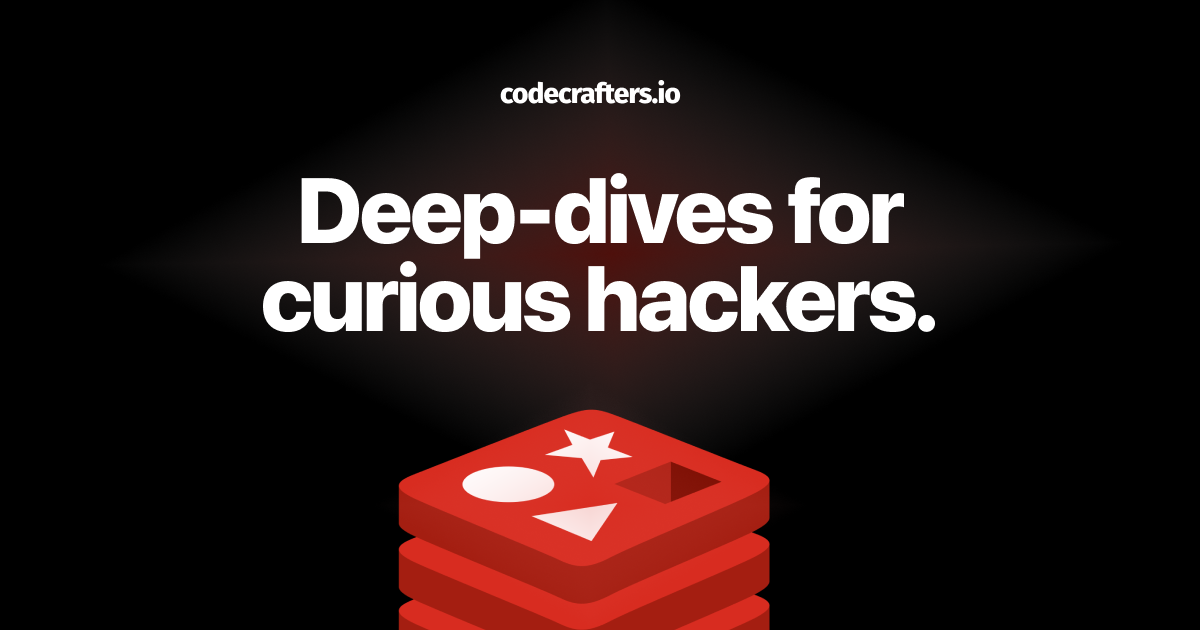
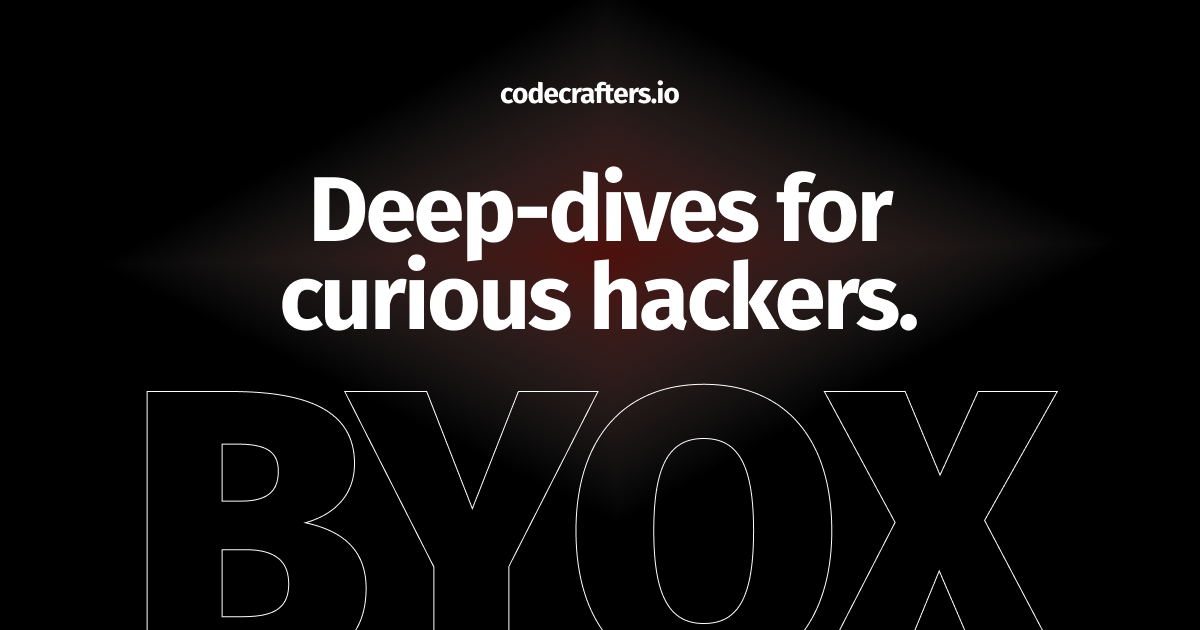
Update og

diff --git a/pages/index.js b/pages/index.js
@@ -15,9 +15,9 @@ export default function Home() {
   return (
     <div className="flex flex-col items-center justify-center min-h-screen">
       <Head>
-        <title>Master any language, with real projects</title>
+        <title>Build your own X. Master any language.</title>
         <link rel="icon" href="/for/favicon.ico" />
-        <meta name="title" content="Master any language, with real projects" />
+        <meta name="title" content="Build your own X. Master any language." />
         <meta
           name="description"
           content="Build Git, Docker, Redis & SQLite from scratch."
@@ -25,7 +25,7 @@ export default function Home() {
 
         <meta property="og:type" content="website" />
         <meta property="og:url" content="https://codecrafters.io/" />
-        <meta property="og:title" content="Master any language, with real projects" />
+        <meta property="og:title" content="Build your own X. Master any language." />
         <meta
           property="og:description"
           content="Build Git, Docker, Redis & SQLite from scratch."
@@ -37,7 +37,7 @@ export default function Home() {
 
         <meta property="twitter:card" content="summary_large_image" />
         <meta property="twitter:url" content="https://codecrafters.io" />
-        <meta property="twitter:title" content="Master any language, with real projects" />
+        <meta property="twitter:title" content="Build your own X. Master any language." />
         <meta
           property="twitter:description"
           content="Build Git, Docker, Redis & SQLite from scratch."
